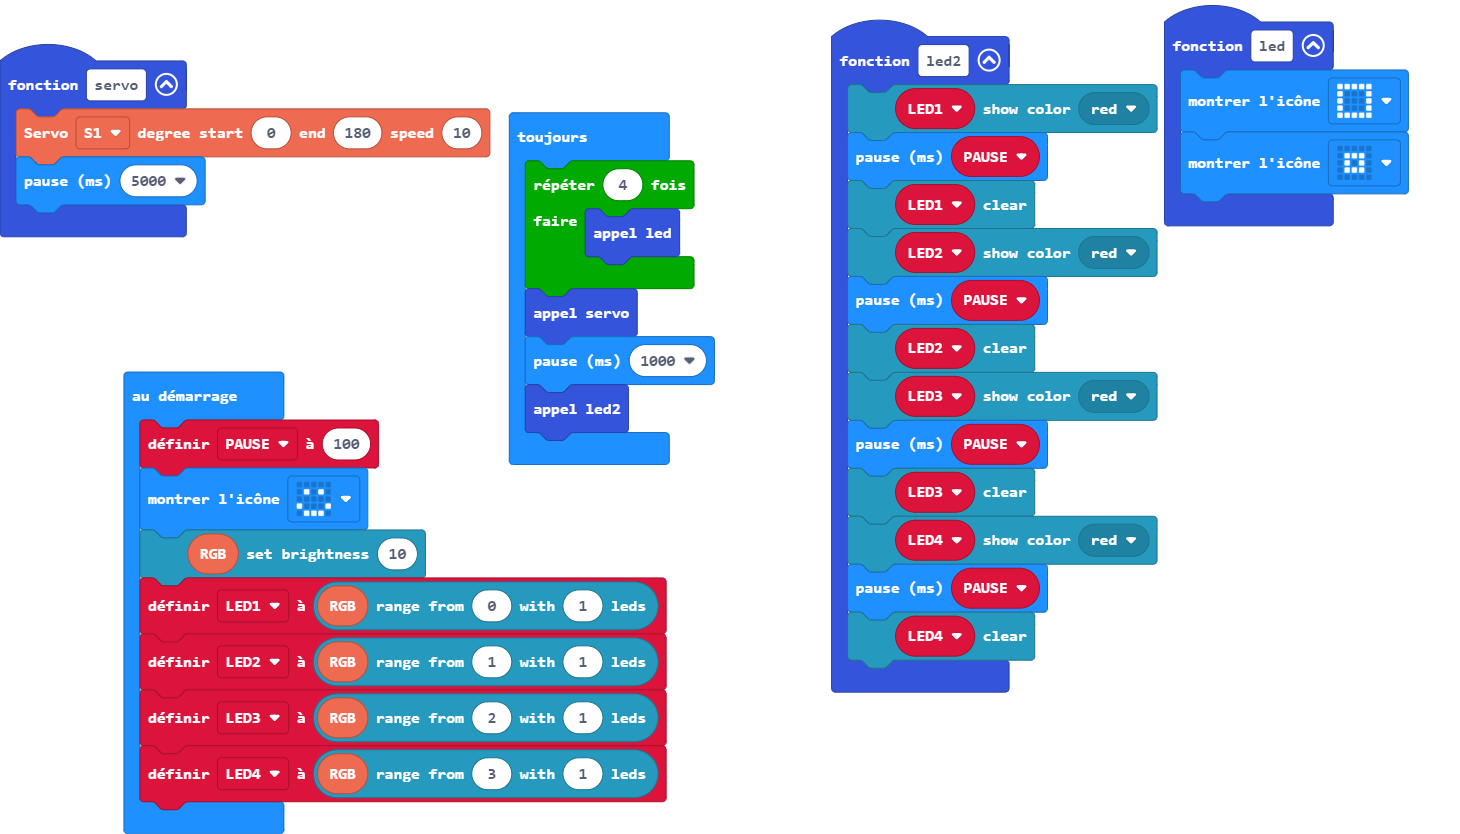
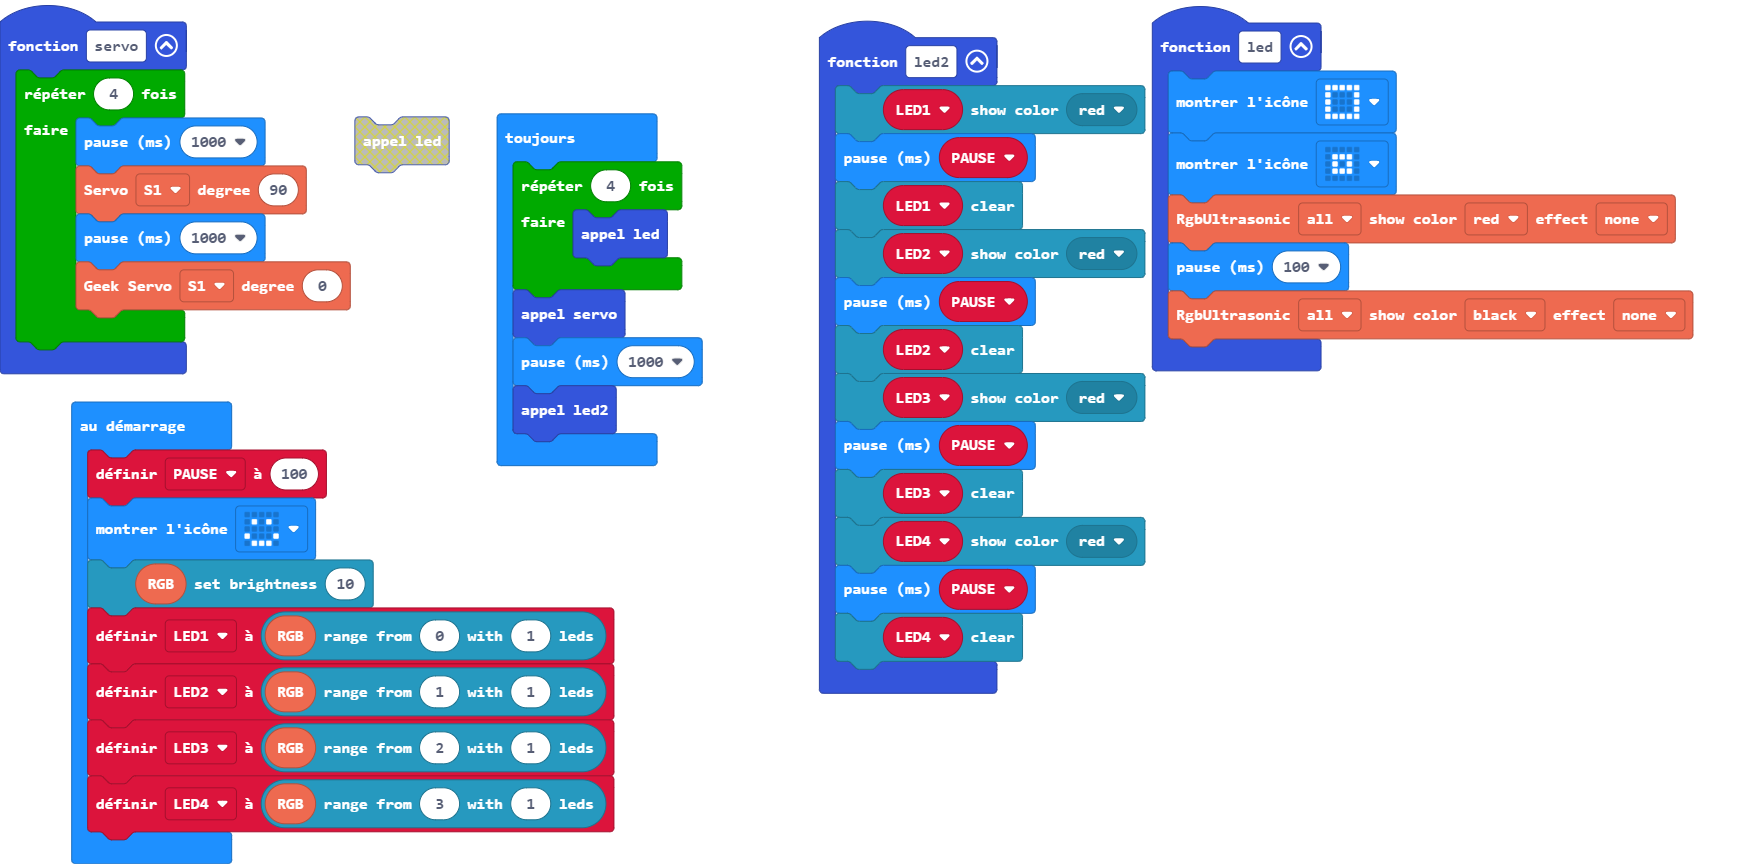
Mise à jour main.blocks, main.ts

diff --git a/main.ts b/main.ts
@@ -1,6 +1,9 @@
 function led2 () {
     basic.showIcon(IconNames.Square)
     basic.showIcon(IconNames.SmallSquare)
+    motorbit.RUS_04(RgbUltrasonics.All, RgbColors.Red, ColorEffect.None)
+    basic.pause(100)
+    motorbit.RUS_04(RgbUltrasonics.All, RgbColors.Black, ColorEffect.None)
 }
 function led22 () {
     LED1.showColor(neopixel.colors(NeoPixelColors.Red))
@@ -17,8 +20,12 @@ function led22 () {
     LED4.clear()
 }
 function servo () {
-    motorbit.Servospeed(motorbit.Servos.S1, 0, 180, 10)
-    basic.pause(5000)
+    for (let index = 0; index < 4; index++) {
+        basic.pause(1000)
+        motorbit.Servo(motorbit.Servos.S1, 90)
+        basic.pause(1000)
+        motorbit.GeekServo(motorbit.Servos.S1, 0)
+    }
 }
 let LED4: neopixel.Strip = null
 let LED3: neopixel.Strip = null
